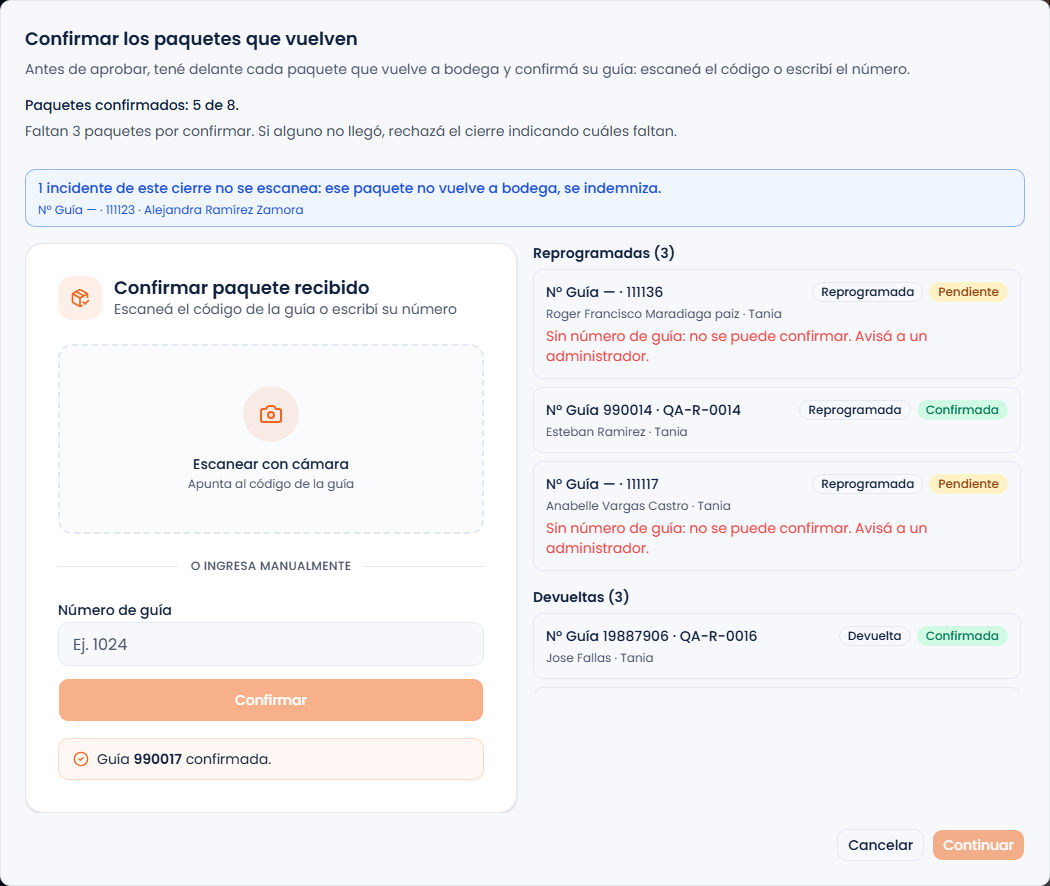
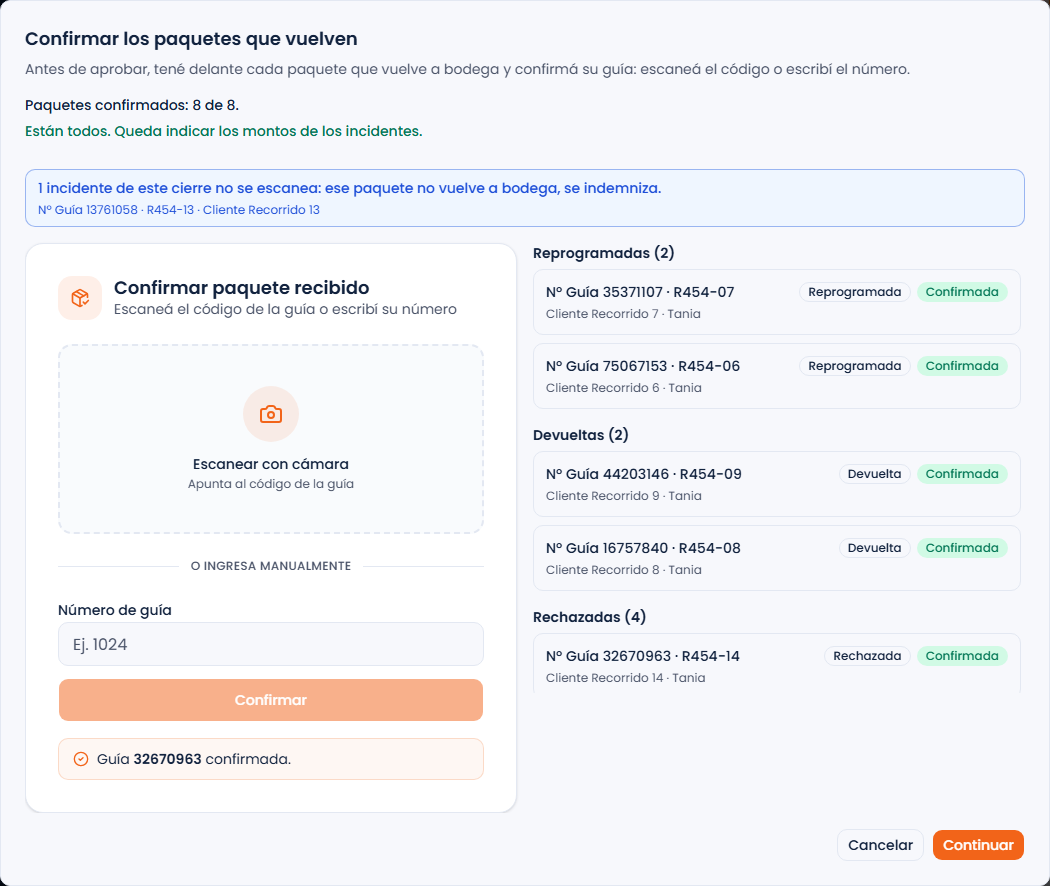
docs(454): recorrido con escenario limpio: aprobacion, dinero y satelite
Mensajero y 14 ordenes creados por el flujo normal (API de la tienda,
generar guia, asignar, recoger). Aprobacion en 917 ms con 14 gestiones,
rechazada a por_devolver_a_tienda (GAM) y a por_devolver (satelite),
anclaje_devolucion en devuelta, caja/ledger/pago al mensajero cuadrados,
14 webhooks estado_actualizado. FALLO-1 reclasificado como artefacto de
datos locales. 39/51 OK, 0 fallos 454.

diff --git a/progress/recorrido_454.md b/progress/recorrido_454.md
@@ -1,158 +1,234 @@
 # Recorrido en navegador — ficha 454 (T4.2)
 
-- **Fecha:** 2026-09-24 (00:50–02:25 hora de Costa Rica). **Rama:** `feature/454-recorrido` desde `edff9ccf`.
-- **Entorno:** base LOCAL (M1-M3 aplicadas, `prisma migrate status` limpio), un solo dev server
-  (`next dev --port 3457`), Playwright headless (`@playwright/test` resuelto con `createRequire`),
-  contexto con geolocalización fija, foto PNG real. Evidencia en `progress/recorrido_454/`
-  (76 archivos: capturas del elemento + JSON de la API con las URL firmadas y el teléfono tapados).
+- **Fecha:** 2026-09-24, de 00:50 a 03:05 hora de Costa Rica, en dos partes. **Rama:** `feature/454-recorrido`
+  desde `edff9ccf`.
+- **Entorno:**
+  - base LOCAL con M1-M3 aplicadas (`prisma migrate status` limpio);
+  - un solo dev server (`next dev --port 3457`);
+  - Playwright headless (`@playwright/test` resuelto con `createRequire`), con geolocalización fija y una
+    foto PNG real.
+- **Evidencia:** `progress/recorrido_454/`, con capturas del elemento y el JSON de la API. Las URL firmadas
+  y el teléfono van tapados.
+- **Partes:**
+  - **Parte 1:** datos QA existentes (Marco, `mensajero.qa`).
+  - **Parte 2:** un escenario limpio creado por el flujo normal de la app, sin SQL de escritura. Es la que
+    cubre aprobación, dinero y tiempos (ver «Parte 2»).
 - **Búsqueda de código:** MCP `codebase-memory` (proyecto `R-job-singularis-projects-ordenex`) para
-  localizar; confirmado siempre en el archivo real. Buena parte se buscó con `grep` porque el índice no
+  localizar, confirmando siempre en el archivo real. Buena parte se buscó con `grep`, porque el índice no
   devolvía los símbolos nuevos de la 454 (`gestion-pendiente.ts`, `NotaGestionPendiente`).
 
-## Qué toqué del entorno local (y hay que saberlo)
+## Qué cambié en el entorno local (conviene saberlo)
 
-1. **Rotadas las 4 cuentas QA** (`seed-usuarios-qa.ts`) y la clave de `maestro.qa@ordenex.test`
-   (`db:seed:maestro`), en la base local. Si otro agente usaba `QA_PASSWORD`, su login deja de funcionar.
-2. **API key «Prueba Tienda 18:06:29» rotada** (la anterior deja de valer) y **webhook registrado** para su
-   owner (`https://recorrido-454.example.com/hook`, no existe: los jobs quedan `pending`; no corrí
-   `procesar-jobs`).
-3. **Corte nocturno forzado** (`GET /api/cron/corte-diario` con `CRON_SECRET`): barrió los dos mensajeros
-   locales (`vencidosCreados: 2`).
-4. **`orden.num_guia` puesto a mano en 3 órdenes sin guía** (111115→990115, 111117→990117, 111136→990136)
-   para intentar la confirmación física. No sirvió (la guía está congelada en `cierre_detail`) y el paso
-   siguiente —actualizar `cierre_detail`— **lo bloqueó el clasificador de permisos**; no lo forcé. Esas 3
-   guías siguen puestas en local.
-5. El cierre `ebc7caa5…` de Marco queda **`solicitado`**, sin aprobar (ver FALLO-1).
+1. **Roté las 4 cuentas QA** (`seed-usuarios-qa.ts`) y la clave de `maestro.qa@ordenex.test`
+   (`db:seed:maestro`) en la base local. Si otro agente usaba `QA_PASSWORD`, su login deja de funcionar.
+2. **Roté la API key «Prueba Tienda 18:06:29»** (la anterior deja de valer) y **registré un webhook** para su
+   owner: `https://recorrido-454.example.com/hook`. Esa URL no existe.
+3. **Forcé el corte nocturno** (`GET /api/cron/corte-diario` con `CRON_SECRET`, `vencidosCreados: 2`).
+4. **Parte 1 — `orden.num_guia` puesto a mano** en 3 órdenes legadas sin guía (111115, 111117 y 111136).
+   Lo hice para intentar la confirmación física de Marco y no sirvió. El UPDATE de `cierre_detail` que venía
+   después lo bloqueó el clasificador de permisos y no lo intenté por otra vía. Esas 3 guías siguen puestas.
+   El cierre `ebc7caa5…` de Marco queda **`solicitado`**.
+5. **Parte 2** (todo por la UI o la API de la app):
+   - **Usuarios creados por el maestro:** «Rita Recorrido» (`mensajero.r454@`, GAM), «Quino QUEPOS»
+     (`mensajero.qq454@`, zona QUEPOS), «Sat QUEPOS» (`satelite.q454@`, adminSatelite de QUEPOS) y «Quique
+     Quepos» (`mensajero.q454@`, zona «Quepos» QA; creado por error de zona y sin usar). Clave de los cuatro:
+     la misma `QA_PASSWORD` rotada.
+   - **Órdenes:** 16 cargadas por la API de la tienda Tania (R454-01..14 en GAM y Q454-01..02 en QUEPOS).
+   - **Cola de trabajos:** corrí **`/api/cron/procesar-jobs` ~21 veces** para vaciarla. Eso **geocodificó
+     contra Google** con la `GOOGLE_MAPS_API_KEY` local los 66 jobs de geocodificación (también los 52
+     viejos) y **quiso entregar los webhooks** al host inexistente, que fallaron por red y quedan en
+     reintento.
 
 ## Tabla caso × rol
 
-Leyenda: **OK** verificado con evidencia · **FALLO** · **N/V** no verificable en este entorno (motivo) ·
-**N/E** no ejecutado porque un paso previo lo bloquea.
+Leyenda: **OK** = verificado con evidencia · **N/V** = no verificable en este entorno (con el motivo).
 
 | Caso | maestro | admin | adminTienda | adminSatelite | mensajero | rastreo público | API key |
 |---|---|---|---|---|---|---|---|
 | Gestionar (5 resultados) | OK ¹ | OK ² | OK ³ | OK ⁴ | OK ⁵ | OK ⁶ | OK ⁷ |
 | Deshacer | N/V (visto con admin) | OK ⁸ | N/V (visto con admin) | OK ⁸ | OK ⁸ | OK ⁸ | OK ⁸ |
-| Pedir cierre | — | — | — | — | bloqueado OK; permitido OK; «bloqueado por ayuda» N/V ⁹ | — | — |
+| Pedir cierre | — | — | — | — | bloqueado OK; bloqueado **solo por ayuda** OK; permitido OK ⁹ | — | — |
 | Corte nocturno forzado | N/V (visto con admin) | OK ¹⁰ | — | — | OK ¹⁰ | — | — |
-| Aprobar | N/E | **N/E — FALLO-1** | N/E | N/E | — | N/E | N/E |
+| Aprobar | N/V (visto con admin) | OK ᴬ | OK ᴬ | OK ᴮ (aprueba la de su zona) | — | OK ᴬ | OK ᴬ |
 | Rechazar cierre | N/V (visto con admin) | OK ¹¹ | OK ¹¹ | — | OK ¹¹ | N/V | OK ¹¹ |
 | Corregir resultado (#69) | — | OK ¹² | OK ¹² | — | — | OK ¹² | OK ¹² |
 | Traspasar | — | gestionada OK; en mano N/V ¹³ | — | N/V | N/V | — | — |
 | Cambiar día | — | gestionada OK; en mano OK ¹³ | — | OK ¹³ | — | — | — |
-| Tope de intentos | N/V ¹⁴ | N/V | — | — | N/V | — | N/V |
+| Tope de intentos | N/V ᶜ | N/V ᶜ | — | — | N/V ᶜ | — | N/V ᶜ |
 | Ayuda y rescate | OK ¹⁵ | OK ¹⁵ | OK ¹⁵ | OK ¹⁵ | OK (Recuperar ofrecido, no pulsado) ¹⁵ | OK ¹⁵ | OK ¹⁵ |
-| Duración de la aprobación (~14 gestiones) | N/E — FALLO-1 | | | | | | |
+| Duración de la aprobación con 14 gestiones | **917 ms** ᴬ | | | | | | |
 
-**Recuento: 34 celdas OK · 0 FALLO en el código de la 454 medido · 12 N/V · 7 N/E (todas por FALLO-1).**
+**Recuento: 39 OK de 51 celdas · 0 FALLO · 12 N/V.**
 
-### Notas de evidencia
+## Parte 2 — escenario limpio: aprobar el cierre
 
-1. `gestionar_maestro_fila_*.png` / `_historial_*.png`. Fila QA-R-0015: «990015 QA-R-0015 **En reparto
-   Entregada · pendiente de confirmación** 1 Carolina Vega…». Historial: «… En reparto → Entregada 13 ago
-   2026 … **Gestión registrada Resultado: Entregada** 24 sept 2026, 12:53 a. m. Por Marco Mensajero
-   (Mensajero)». Lo mismo con Reprogramada (0014), Devuelta (0016), Rechazada (0020) e Incidente (0021).
-2. `gestionar_admin_fila_*.png`: mismas cinco filas con la misma nota.
-3. `gestionar_tienda_fila_*.png`: la tienda (dueña de las cinco) ve las cinco con la nota.
-4. `/recepcion-satelite/en-bodega` de Sara (zona Quepos): «990016 QA-R-0020 En reparto **Rechazada ·
-   pendiente de confirmación**…» y «990017 QA-R-0021 En reparto **Incidente · pendiente de
-   confirmación**…»; **QA-R-0015 (GAM) no aparece** («(sin fila)»): no ve órdenes ajenas.
-5. Respuesta de `gestionar`, capturada al instante: `{"status":"ok","ordenId":"f5641784-…","estado":"entregada",…}`
-   (y `reprogramada`, `devuelta`, `rechazada`, `incidente`). Toast: «Orden QA-R-0014: Reprogramada.».
-   Tras cada una, la orden **sale de «por gestionar»** (el botón «Gestionar la orden X» desaparece) y los
-   KPI bajan: `Pendientes 9 → 8 → 7 → 6 → 5 → 4`, «Por cobrar ₡99.244 → ₡92.744 → … → ₡47.244».
-   En base: la orden sigue `en_reparto` y la gestión tiene su evento `gestion_registrada` (R1/R2).
-6. `gestionar_rastreo_*.png` (sin sesión, landing → «Rastrear envío»): «Guía 990015 **Entregada ·
-   pendiente de confirmación** … Entregada · pendiente de confirmación 2026-09-24 · 00:53»; la action
-   devuelve `{"hito":"entregado",…,"pendiente":true,"nombreResultado":"Entregada"}`. Igual con las otras 4.
-7. `gestionar_api_990015.json`: `"estado":"en_reparto"`, `gestiones:[…{"resultado":"entregada",
-   "estadoResultante":null,…,"pendienteConfirmacion":true}]`; la gestión legada anterior sale con
-   `pendienteConfirmacion:false`. Un job `webhook_evento` por cada `gestion_registrada`.
-8. Deshacer de QA-R-0021 desde `/cierre-dia` («Devolver a gestión»): respuesta `{"status":"ok",…}`, toast
-   «Gestión deshecha; la orden volvió a tu lista para gestionar.»; vuelve a «por gestionar»
-   (`deshacer_mensajero_reparto_QA-R-0021.png`), fila de admin y satélite ya **sin nota**, historial con
-   «**Gestión anulada** Resultado: Incidente … Por Marco Mensajero», rastreo sin el hito pendiente,
-   evento `gestion_anulada` con su job.
-9. `bloqueado_mensajero_solicitar_cierre.png`: botón deshabilitado, «Tenes ordenes sin gestionar;
-   gestionalas antes de cerrar.» (texto de la feature 37, no de la 454). **Permitido:** tras el corte,
-   «Solicitar aprobación del cierre vencido» → `{"status":"ok","via":"resolicitado"}`. **N/V «bloqueado
-   solo por la ayuda»:** las órdenes en mano que quedaban no tienen guía y el portal no deja gestionarlas
-   («Esta orden aún no tiene guía asignada; no se puede gestionar.»), así que el bloqueo no se pudo aislar.
-10. Corte → `{"vencidosCreados":2,"mensajerosEvaluados":2}`. Las 7 órdenes con gestión pendiente siguen
-    `en_reparto` con su gestión colgada del cierre `vencido`; **ninguna** en `cierre_sin_gestion`, que
-    solo tiene las 3 en mano (63241, 111117 y REM-0001, esta con ayuda abierta: R27). Detalle de admin
-    (`solicitado_admin_cierre_detalle.png`): «GESTIONES 16 … ÓRDENES SIN GESTIONAR 3 … 111117 · …
-    63241 · … REM-0001». Mensajero: «Tu cierre venció sin enviarse a aprobación.»
-11. Rechazo: `{"status":"ok","cierreId":"ebc7caa5-…","estado":"rechazado"}` en 789 ms; el snapshot de las
-    19 órdenes es idéntico antes/después salvo el estado del cierre (nada se mueve); la tienda sigue
-    viendo «Entregada · pendiente de confirmación»; **0 jobs nuevos** (15 antes y después); el mensajero
-    ve «Tu cierre fue rechazado, pero no queda cerrado» y re-solicita (`via: resolicitado`).
-12. Corregir QA-R-0021 entregada→rechazada: el diálogo dice «La orden sigue «En reparto» hasta entonces:
-    su estado pasa a «Rechazada» al aprobar el cierre.»; respuesta `totales.general 10700 → 6500`, pago al
-    mensajero 13600 → 11900, ingreso de bodega por rechazos 1000 → 2000; evento `gestion_corregida`
-    (`entregada → rechazada`, actor admin) con su job; la tienda y el rastreo pasan a «Rechazada ·
-    pendiente de confirmación».
-13. En `/ordenes` (admin) la gestionada no tiene casilla sino
-    `aria-label="No se puede seleccionar la orden QA-R-0015: Tiene una gestión pendiente de confirmación: no
-    se puede traspasar ni cambiar el día hasta que se apruebe el cierre del mensajero."`; la en mano (63241)
-    ofrece «Traspasar a otro mensajero» y «Cambiar día de reparto». El traspaso en mano no se pudo ejecutar:
-    el modal dice «No hay otro mensajero al que traspasar estas órdenes» (Marco es el único mensajero
-    activo de GAM en local). Satélite: las gestionadas solo ofrecen «Ver historial».
-14. Ninguna orden local está cerca del tope y llegar exige aprobar cierres (FALLO-1).
-15. Ayuda sobre 111117: toast «Se solicitó ayuda. Tu tienda lo verá en Novedades.»; el mensajero la ve en
-    «CON AYUDA SOLICITADA … 111117 En ayuda … Recuperar» y sin botón «Gestionar»; maestro/tienda ven
-    «En reparto **Ayuda solicitada a la tienda**» y el evento en el historial; `/novedades` de la tienda
-    la lista en «Ayuda solicitada». **Habilitar** (tienda): `{"status":"ok",…,"rescatada":true}`, «La orden
-    volvió a la ruta.», evento `ayuda_rescatada`. **Reprogramar desde la ayuda** (tienda, 111136):
-    `{"status":"ok","resultado":"reprogramada"}` → «Reprogramada · pendiente de confirmación», evento
-    `gestion_registrada` con familia `gestion_tienda_ayuda` (R25). **Habilitar por API** (990017):
-    `{"resultado":"habilitada","estado":"en_reparto","ayudaCerrada":true}`; repetir da
-    `estado_no_habilitable`. Satélite ve la nota en QA-R-0021; el rastreo no cambia («En nuestras
-    instalaciones»).
+**Montaje, todo por el flujo normal:**
+- **Carga:** API de la tienda, `POST /api/ordenes/api-key/carga` → 14 órdenes `en_preparacion`.
+- **Guías:** admin, `/ordenes` → «Generar guía» → `en_bodega_central`.
+- **Geocodificación:** `procesar-jobs` → las 14 con `geocode_status=OK`.
+- **Asignación:** admin, «Asignar mensajero» → Rita, «Hoy» → `por_recoger`.
+- **Recogida:** Rita teclea las 14 guías en «Recoger paquete» → `en_reparto`.
 
-### Jobs `webhook_evento` (consulta local al final)
+**Gestiones de Rita** (14, todas `status:"ok"`):
+- **Registradas por Rita:** 5 entregadas en efectivo (R454-01..05), 2 reprogramadas (06, 07), 2 devueltas
+  (08, 09), 3 rechazadas (10, 11, 12) y 1 incidente (13).
+- **R454-14:** Rita pide ayuda y la tienda la **rechaza desde la ayuda** (familia `gestion_tienda_ayuda`).
+- **Bloqueo aislado por la ayuda:** con las otras 13 gestionadas y la 14 en ayuda, «Solicitar cierre»
+  queda deshabilitado (`bloqueado_solo_ayuda_mensajero_solicitar_cierre.png`, R22).
+- **Solicitud del cierre:** tras la gestión de la tienda, el cierre sale `{"status":"ok","via":"creado",…,
+  "general":"32500.00"}`.
 
-| tipo | estado | n | max(updated_at) |
+**ᴬ Aprobación (admin), cierre `7fb47e8d…`:**
+- **Detalle antes** (`aprobar_admin_cierre_detalle_antes.png`): «TOTAL GENERAL ₡32.500 … PAGO AL MENSAJERO
+  ₡8.500 GESTIONES 14».
+- **Confirmación física:** «Paquetes confirmados: 8 de 8. Están todos.» (`aprobar_admin_confirmacion_fisica.png`).
+- **Indemnización** del incidente: ₡3.000.
+- **Respuesta, en 917 ms desde el clic en «Aprobar e indemnizar»:**
+  `{"status":"ok","cierreId":"7fb47e8d-…","estado":"aprobado","pendientePagoMensajero":"0.00"}`.
+  Toast «Cierre aprobado correctamente.».
+- **Estados aplicados** (transiciones de `orden_historial_estado`):
+
+  | Orden | Resultado | Transiciones al aprobar | Estado final |
+  |---|---|---|---|
+  | R454-01..05 | entregada | `gestion: en_reparto→entregada` | entregada |
+  | R454-06, 07 | reprogramada | `gestion: en_reparto→reprogramada` | reprogramada |
+  | R454-08, 09 | devuelta | **`anclaje_devolucion`**`: en_reparto→devuelta` | devuelta |
+  | R454-10, 11, 12 | rechazada | `gestion: en_reparto→rechazada` + `devolucion_rechazada: rechazada→por_devolver_a_tienda` | **por_devolver_a_tienda** (GAM) |
+  | R454-13 | incidente | `incidente: en_reparto→incidente` | incidente |
+  | R454-14 | rechazada (tienda, desde ayuda) | `gestion_tienda_ayuda: en_reparto→rechazada` + `devolucion_rechazada` | **por_devolver_a_tienda** |
+
+- **Autoría y notas:** el historial (tienda) dice «En reparto → Entregada … **Por Rita Recorrido**» (la
+  persona que registró, R8) y «Rechazada → Por devolver a tienda … Por Ana Admin». Las **notas «pendiente»
+  desaparecieron**: la fila de admin y tienda dice «R454-01 **Entregada**», «R454-10 **Por devolver a
+  tienda**»… (`aprobado_*_fila_*.png`).
+- **Rastreo** (`aprobado_rastreo_*.png`):
+  - 40520764: «**Entregado**»;
+  - 16757840 (devuelta) y 13761058 (incidente): «No fue posible entregarlo»;
+  - 28296862 (rechazada): «No fue posible entregarlo → **En devolución a la tienda**».
+  - En ninguno queda el hito pendiente.
+- **API** (`aprobado_api_*.json`):
+  - 40520764: `"estado":"entregada"`, gestión con `"estadoResultante":"entregada","pendienteConfirmacion":false`;
+  - 28296862: `"estado":"por_devolver_a_tienda"`, `"estadoResultante":"rechazada"`.
+- **Webhooks:** la aprobación encoló **14 `webhook_estado`** (`orden.estado_actualizado`): entregada 5,
+  reprogramada 2, devuelta 2, rechazada 4 e incidente 1. `por_devolver_a_tienda` no emite porque no está en
+  `EVENTOS_PUBLICOS`; es la política de siempre (`lib/types/webhook-eventos.ts`).
+- **Dinero** (movimientos con `origen_tipo = cierre_dia`):
+
+  | Libro | Movimiento | Monto | Cuadra con |
+  |---|---|---|---|
+  | Caja | ingreso COD recaudado | 32.500 | 5 entregas: 5.500+6.000+6.500+7.000+7.500 |
+  | Caja | ingreso flete + IVA | 10.000 + 1.300 | 5 × 2.000 + 13 % = «Flete + IVA ₡11.300» del detalle |
+  | Caja | ingreso comisión COD + IVA | 1.137,50 + 147,89 | «Comisión + IVA ₡1.285,39» del detalle |
+  | Caja | egreso pago al mensajero | 8.500 | 5 × 1.700 = «PAGO AL MENSAJERO ₡8.500» |
+  | Caja | egreso indemnización | 3.000 | lo tecleado para R454-13 |
+  | Ledger tienda | crédito COD / débitos flete, IVA flete, comisión, IVA comisión | 32.500 / 10.000, 1.300, 1.137,50, 147,89 | espejo de la caja |
+  | Pago mensajero | devengo + pago en efectivo | 8.500 + 8.500 | `pendientePagoMensajero: 0.00` |
+
+  - **Flete por rechazo = ₡0:** la tarifa congelada de Tania en GAM tiene `valor_flete_devuelto_gam = 0`
+    (`cierre_detail`); fuera de GAM sí cobra (ver ᴮ).
+  - **Ingreso de bodega por rechazos (₡4.000):** figura en la liquidación y en `total_ingreso_bodega_rechazos`,
+    pero no genera movimiento de caja con destino central. No lo comparé contra el comportamiento previo a
+    la 454; lo cubre C11 (`caracterizacion/dinero-aprobacion.test.ts`).
+
+**ᴮ Zona satélite (QUEPOS), cierre `50ffdfa2…` con destino `bodega_satelite`:**
+- **Montaje:** Q454-01..02 → «Rutear a bodega satélite» → Sat QUEPOS «Recibir paquete» + «Asignar» a
+  Quino → Quino recoge → Q454-01 **rechazada**, Q454-02 entregada → cierre solicitado.
+- **Aprobación:** **aprueba el adminSatelite** en «Confirmar y aprobar» (1 de 1 paquetes). Este no lo
+  cronometré: el clic salió en una corrida del script que luego abortó.
+- **Estados:**
+  - Q454-01: `gestion: en_reparto→rechazada` + `devolucion_rechazada: →` **`por_devolver`** (satélite).
+    Fila del satélite «Q454-01 **Por devolver**», rastreo «En devolución a la tienda».
+  - Q454-02: `entregada`.
+- **Dinero:** COD 6.000; flete 3.000 + IVA 390; **flete de devolución 1.000 + IVA 130** (la rechazada fuera
+  de GAM); comisión 210 + IVA 27,30. En caja y en el ledger de la tienda, espejados.
+- **Pago al mensajero 0:** Quino es un mensajero recién creado y no tiene tarifa de mensajero en QUEPOS
+  (configuración de datos, no de la 454).
+
+**ᶜ Tope de intentos:** no se alcanza en un tiempo razonable. Hacen falta tres ciclos de «reprogramada →
+aprobar → liberar reprogramadas (el cron libera cuando llega la fecha, que como pronto es mañana) → recoger
+→ gestionar». Además, ninguna orden local está cerca del tope. La regla la cubren C03/C04.
+
+## Notas de evidencia (parte 1)
+
+1. `gestionar_maestro_fila_*.png` / `_historial_*.png`.
+   - Fila QA-R-0015: «990015 QA-R-0015 **En reparto Entregada · pendiente de confirmación** 1 Carolina Vega…».
+   - Historial: «**Gestión registrada Resultado: Entregada** … Por Marco Mensajero (Mensajero)».
+   - Lo mismo con Reprogramada (0014), Devuelta (0016), Rechazada (0020) e Incidente (0021).
+2. `gestionar_admin_fila_*.png`: las mismas cinco filas con la misma nota.
+3. `gestionar_tienda_fila_*.png`: la tienda ve las cinco con la nota.
+4. `/recepcion-satelite/en-bodega` de Sara (zona Quepos) muestra QA-R-0020 «En reparto **Rechazada ·
+   pendiente de confirmación**» y QA-R-0021 «Incidente · pendiente…». **QA-R-0015 (GAM) no aparece**.
+5. Respuesta de `gestionar` capturada al instante: `{"status":"ok",…,"estado":"entregada",…}`, y lo mismo
+   para los otros cuatro resultados.
+   - La orden **sale de «por gestionar»** y el KPI baja de `Pendientes 9 → 4`.
+   - En la base la orden sigue `en_reparto`, con su evento `gestion_registrada` (R1/R2).
+6. Rastreo sin sesión: «Guía 990015 **Entregada · pendiente de confirmación**». La action devuelve
+   `{"hito":"entregado",…,"pendiente":true,"nombreResultado":"Entregada"}`.
+7. `gestionar_api_990015.json`: `"estado":"en_reparto"`, gestión con `"estadoResultante":null,…,
+   "pendienteConfirmacion":true`. Hay un job `webhook_evento` por cada `gestion_registrada`.
+8. Deshacer de QA-R-0021 («Devolver a gestión»):
+   - toast «Gestión deshecha; la orden volvió a tu lista para gestionar.» y la orden vuelve a «por gestionar»;
+   - las filas de admin y satélite quedan sin nota; el historial dice «**Gestión anulada**»;
+   - el rastreo pierde el hito pendiente;
+   - hay evento `gestion_anulada` con su job.
+9. **Bloqueado:** «Tenes ordenes sin gestionar; gestionalas antes de cerrar.».
+   - **Bloqueado solo por la ayuda:** medido en la parte 2 (R454-14).
+   - **Permitido:** tanto el cierre vencido re-solicitado (Marco) como el cierre nuevo (Rita, `via:"creado"`).
+10. Corte: `{"vencidosCreados":2,"mensajerosEvaluados":2}`.
+    - Las 7 órdenes con gestión pendiente siguen `en_reparto`, colgadas del cierre `vencido`.
+    - **Ninguna** está en `cierre_sin_gestion`, que solo tiene las 3 en mano; REM-0001 estaba en ayuda y se
+      barrió (R27).
+11. Rechazo del cierre: `estado:"rechazado"` en 789 ms.
+    - Las 19 órdenes quedan idénticas: nada se mueve.
+    - La tienda sigue viendo la nota y no se encola **ningún job nuevo**.
+    - El mensajero ve «Tu cierre fue rechazado, pero no queda cerrado» y lo vuelve a solicitar.
+12. Corregir QA-R-0021, de entregada a rechazada:
+    - el diálogo dice «La orden sigue «En reparto» hasta entonces…»;
+    - los totales cambian: general 10.700 → 6.500, pago al mensajero 13.600 → 11.900, rechazos 1.000 → 2.000;
+    - hay evento `gestion_corregida` con su job;
+    - tienda y rastreo pasan a «Rechazada · pendiente de confirmación».
+13. Traspasar y cambiar día:
+    - la fila gestionada no tiene casilla, solo `aria-label="No se puede seleccionar la orden QA-R-0015:
+      Tiene una gestión pendiente de confirmación: no se puede traspasar ni cambiar el día…"`;
+    - la fila en mano ofrece «Traspasar a otro mensajero» y «Cambiar día de reparto»;
+    - el traspaso de la en mano da «No hay otro mensajero al que traspasar» (en local no había otro
+      mensajero activo en GAM cuando lo probé);
+    - en el satélite, las gestionadas solo ofrecen «Ver historial».
+15. Ayuda y rescate:
+    - **Solicitar ayuda:** toast «Se solicitó ayuda…»; el mensajero la ve en «CON AYUDA SOLICITADA» sin
+      «Gestionar»; maestro y tienda ven «En reparto **Ayuda solicitada a la tienda**».
+    - **Habilitar (tienda):** `"rescatada":true`, con evento `ayuda_rescatada`.
+    - **Reprogramar desde la ayuda:** «Reprogramada · pendiente…», con familia `gestion_tienda_ayuda` (R25).
+    - **Habilitar por API:** `"ayudaCerrada":true`; repetirlo da `estado_no_habilitable`.
+
+### Jobs `webhook_*` (consulta local al final)
+
+| tipo | estado | n | max(updated_at), hora de la base |
 |---|---|---|---|
-| webhook_evento | pending | 15 | 2026-09-24 02:20:24 (hora de la base) |
-| optimizacion_ruta | pending | 30 | 2026-09-24 02:11:11 |
-| geocodificacion | pending | 52 | 2026-09-04 13:06:52 |
+| webhook_evento | pending (en reintento: «fallo de red o timeout») | 32 | 2026-09-24 02:51 (parte 2: 30 tras aprobar Rita) |
+| webhook_estado | pending (en reintento) | 64 | 2026-09-24 03:03 |
+| geocodificacion | done | 68 | — |
+| optimizacion_ruta | done / pending | 38 / 9 | — |
 
-Eventos → jobs: `gestion_registrada` 8/7 (el que falta es el del backfill de M3 del 2026-08-21, anterior al
-webhook), `gestion_anulada` 1/1, `gestion_corregida` 1/1, `ayuda_solicitada` 4/4, `ayuda_rescatada` 1/1,
-`ayuda_habilitada_api` 1/1. Ojo al leer las horas: en la base local `jobs.created_at` usa `now()` con
-`TimeZone=America/Bogota` y `orden_evento.created_at` va en UTC (5 h de diferencia). Es configuración local,
-no de la 454.
+- **Eventos → jobs:** en la parte 1, `gestion_registrada` 8/7. El que falta es el evento que dejó el
+  backfill de M3 el 2026-08-21, cuando todavía no existía el webhook.
+- **Horas:** en la base local `jobs` usa `now()` con `TimeZone=America/Bogota` y `orden_evento` va en UTC:
+  hay 5 h de diferencia entre ambos.
 
 ## FALLOS
 
-**FALLO-1 — El cierre no se puede aprobar desde la UI si trae una gestión de una orden sin guía.**
-Es lo que bloqueó «Aprobar», el dinero, `rechazada→por_devolver*`, el tope y la medición de ~14
-gestiones. No lo puedo atribuir con seguridad a la 454: dos de las tres filas son datos legados del seed.
-Pero la tercera la creó en este recorrido una vía de la propia 454.
-Pasos (base local):
-1. Mensajero: en «Reparto», «Gestionar la orden 111136» → «Aceptar» → «Solicitar ayuda con la orden de
-   Roger…» (la orden **no tiene guía**; el modal lo dice: «(sin guía asignada)») → motivo → «Solicitar ayuda».
-2. Tienda: `/novedades` → «Reprogramar la orden de Roger Francisco Maradiaga paiz» → fecha, foto y
-   motivo → «Reprogramar». Respuesta `{"status":"ok","resultado":"reprogramada"}`. La gestión entra en el
-   cierre del mensajero como **retornable**.
-3. Admin: `/cierres-admin` → «Ver / decidir» → «Aprobar» abre «Confirmar los paquetes que vuelven», y la fila
-   dice «Nº Guía — · 111136 Reprogramada Pendiente … **Sin número de guía: no se puede confirmar. Avisá a
-   un administrador.**»; «Continuar» queda deshabilitado (5 de 8 confirmadas). La guía de la fila sale de
-   `cierre_detail`, congelada al crear el cierre, así que ponerle guía a la orden después no lo arregla.
-   El único camino es rechazar, y el mensajero no puede sacar esa gestión de un cierre rechazado: no aparece
-   «Devolver a gestión».
-Pregunta abierta para el leader: ¿antes de la 454 se podía reprogramar desde la ayuda una orden sin guía?
-Si sí, el fallo es anterior (feature 238). En cualquier caso, **con los datos locales la aprobación queda por
-recorrer**. Para seguir hacen falta datos limpios (un mensajero con solo órdenes con guía) o permiso para
-completar `cierre_detail.num_guia` en local.
+**Ninguno imputable a la 454.** El antiguo FALLO-1 (un cierre con gestiones de órdenes sin guía no pasa la
+confirmación física) queda **reclasificado como artefacto de datos locales**, según el coordinador. En
+producción, 0 de 4.112 gestiones son de órdenes sin guía: en el flujo real no se asigna nada sin guía.
+Con datos limpios la aprobación completa pasó (ᴬ, ᴮ).
 
-### Observaciones (no son fallos de la 454)
+## Deuda no-454 (observaciones)
 
-- Tras gestionar, el toast dice «Orden QA-R-0015: Entregada.» mientras la orden sigue «En reparto». Es
-  coherente con la nota, pero el leader decide si el texto debe decir «pendiente de confirmación».
-- «Tenes ordenes sin gestionar; gestionalas antes de cerrar.» no lleva tildes (feature 37) y se queda
-  puesto después del corte aunque lo único que queda son órdenes `sin_gestionar`.
-- El dev log registra 4 «Hydration failed»: probablemente por la zona horaria del navegador de la sonda
-  (Costa Rica) frente a la del servidor (Bogotá). No lo investigué.
-- La hoja de historial tiene el botón de cierre con el texto «Close», en inglés (anterior a la 454).
+1. Tras gestionar, el toast dice «Orden R454-01: Entregada.» mientras la orden sigue «En reparto» con la
+   nota. Queda a decisión del leader si debe decir «pendiente de confirmación».
+2. El aviso «Tenes ordenes sin gestionar; gestionalas antes de cerrar.» (feature 37):
+   - no lleva tildes;
+   - sigue saliendo después del corte, aunque lo único que queda son órdenes `sin_gestionar`.
+3. El dev log registra 4 «Hydration failed», probablemente porque la zona horaria del navegador de la
+   prueba (Costa Rica) no coincide con la del servidor (Bogotá). No lo investigué.
+4. El botón de cierre de la hoja de historial dice «Close», en inglés; es anterior a la 454.
